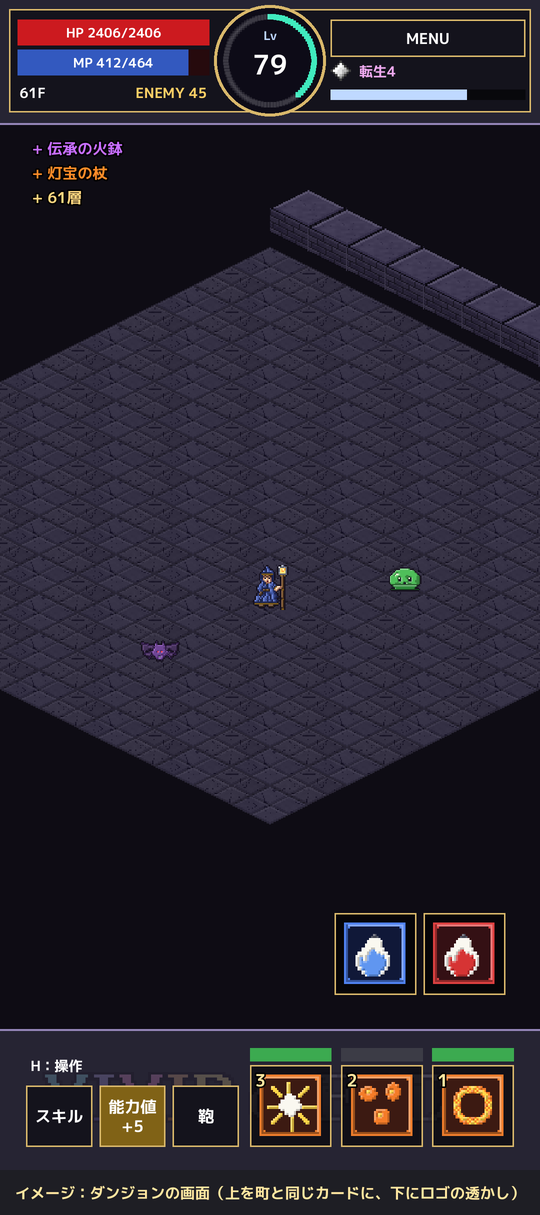
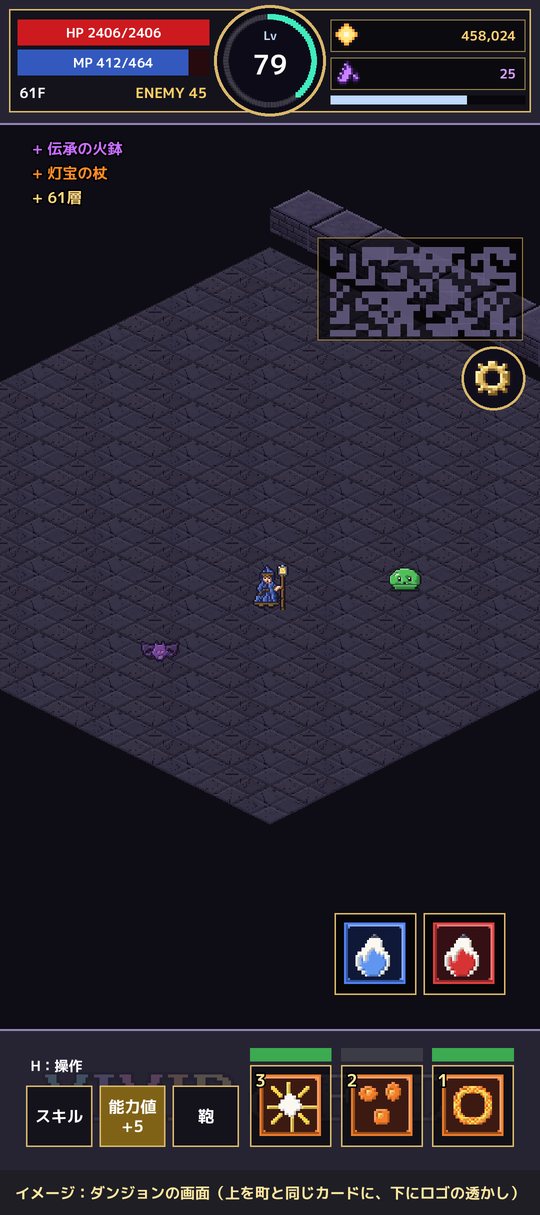
Dungeon HUD: embers and shards in the card's right column, MENU as a gear under the minimap, normal font in the card
The card's text uses the regular font so long values shrink to fit; the
dodge bar sits under the embers and shards; the boss HP bar moves below
the gear.

Claude-Session: https://claude.ai/code/session_01XMEo4x59g4Ygvken3HiQNb

Changed region(s): [[0.563, 0.1827, 0.9778, 0.335], [0.5926, 0.0, 0.9778, 0.0914]]

diff --git a/Game/Assets/Scripts/UI/Hud.cs b/Game/Assets/Scripts/UI/Hud.cs
@@ -86,14 +86,15 @@ namespace VividOfFade
         static Rect TopCard => new Rect(BandMargin, BandMargin, Screen.width - BandMargin * 2f, TopCardH);
         static float TopCardH => Screen.height * 0.088f;
         static float TopLvD => TopCardH * 1.02f;
-        /// <summary>MENU（GUI 座標）。カードの右の列の上。</summary>
-        static Rect MenuGui
+        /// <summary>MENU の歯車（GUI 座標）。ミニマップのすぐ下、右端。</summary>
+        Rect MenuGui
         {
             get
             {
-                var c = TopCard;
-                float rx = c.center.x + TopLvD * 0.5f + PanelPad * 1.5f, rw = c.xMax - PanelPad - rx;
-                return new Rect(rx, c.y + c.height * 0.1f, rw, c.height * 0.36f);
+                float w = Screen.width * 0.38f, h = w * Room.MiniH / Room.MiniW;
+                float right = Screen.width - Screen.height * 0.015f;
+                float s = Screen.height * 0.05f;
+                return new Rect(right - s, ViewTop + Screen.height * 0.01f + h + Screen.height * 0.008f, s, s);
             }
         }
 
@@ -1466,6 +1467,15 @@ namespace VividOfFade
             float lineH = small.fontSize * 1.35f;
             var card = TopCard;
             float pp = PanelPad;
+            // カードの文字は通常のフォント（欄に収まるよう縮む）。縁取りで読みやすく
+            var cardText = new GUIStyle(small) { fontStyle = FontStyle.Bold, alignment = TextAnchor.MiddleCenter };
+            var cardOutline = new Color(0f, 0f, 0f, 0.85f);
+            void CardLabel(Rect r, string t, Color c, TextAnchor a)
+            {
+                var st0 = new GUIStyle(cardText) { alignment = a };
+                st0.normal.textColor = c;
+                OutlinedLabel(r, t, st0, cardOutline);
+            }
             Fill(card, new Color(0.08f, 0.075f, 0.11f, 1f));
             float lvD = TopLvD;
             var lvR = new Rect(card.center.x - lvD * 0.5f, card.center.y - lvD * 0.5f, lvD, lvD);
@@ -1474,14 +1484,14 @@ namespace VividOfFade
             var hpBack = new Rect(lx, card.y + card.height * 0.1f, lw, card.height * 0.25f);
             float ratio = player.MaxHp > 0 ? Mathf.Clamp01((float)player.Hp / player.MaxHp) : 0f;
             OrnateBar(hpBack, ratio, new Color(0.15f, 0.04f, 0.05f, 1f), new Color(0.8f, 0.1f, 0.12f, 1f), FrameGold, false);
-            NumberFont.DrawIn(hpBack, $"HP {player.Hp}/{player.MaxHp}", Color.white, TextAnchor.MiddleCenter, 0.9f, HudPx);
+            CardLabel(hpBack, $"HP {player.Hp}/{player.MaxHp}", Color.white, TextAnchor.MiddleCenter);
             var mpBack = new Rect(lx, card.y + card.height * 0.39f, lw, card.height * 0.25f);
             float mpRatio = player.MaxMp > 0 ? Mathf.Clamp01((float)player.Mp / player.MaxMp) : 0f;
             OrnateBar(mpBack, mpRatio, new Color(0.05f, 0.08f, 0.18f, 1f), new Color(0.2f, 0.35f, 0.75f, 1f), FrameGold, false);
-            NumberFont.DrawIn(mpBack, $"MP {player.Mp}/{player.MaxMp}", Color.white, TextAnchor.MiddleCenter, 0.9f, HudPx);
+            CardLabel(mpBack, $"MP {player.Mp}/{player.MaxMp}", Color.white, TextAnchor.MiddleCenter);
             var floorRow = new Rect(lx, card.y + card.height * 0.69f, lw, card.height * 0.24f);
             string floorText = GameConfig.FloorNameEn(World.Floors.Floor) + (World.Floors.IsBossFloor ? " BOSS" : ""); // HUD では「71F」と短く
-            NumberFont.DrawIn(new Rect(floorRow.x, floorRow.y, floorRow.width * 0.48f, floorRow.height), floorText, Color.white, TextAnchor.MiddleLeft, 0.9f, HudPx);
+            CardLabel(new Rect(floorRow.x, floorRow.y, floorRow.width * 0.48f, floorRow.height), floorText, Color.white, TextAnchor.MiddleLeft);
             if (!World.Floors.IsBossFloor && World.Room.StairsArea != null)
             {
                 // 普通の層：階段の封印までの残りの敵（階段の部屋）。開いたら「OPEN」
@@ -1489,27 +1499,32 @@ namespace VividOfFade
                 bool open = World.Floors.StairsOpen;
                 string t = open ? "OPEN" : $"ENEMY {left}";
                 var col = open ? new Color(0.55f, 0.8f, 1f) : new Color(1f, 0.82f, 0.4f);
-                NumberFont.DrawIn(new Rect(floorRow.x + floorRow.width * 0.48f, floorRow.y, floorRow.width * 0.52f, floorRow.height), t, col, TextAnchor.MiddleRight, 0.9f, HudPx);
+                CardLabel(new Rect(floorRow.x + floorRow.width * 0.48f, floorRow.y, floorRow.width * 0.52f, floorRow.height), t, col, TextAnchor.MiddleRight);
             }
-            // 右：MENU（あとで描く）、転生の印、回避の待ち時間
-            var mg = MenuGui;
-            if (ch != null && ch.Rebirths > 0)
+            // 右：火種と欠片（町の画面と同じ）、その下に回避の待ち時間
             {
-                var aura = ThirdClasses.AuraColor(ch.Rebirths);
-                var countStyle = new GUIStyle(small) { alignment = TextAnchor.MiddleLeft, fontStyle = FontStyle.Bold };
-                countStyle.normal.textColor = Color.Lerp(aura, Color.white, 0.35f);
-                float gem = card.height * 0.2f;
-                var gemRect = new Rect(mg.x, card.y + card.height * 0.5f, gem, gem);
-                var old2 = GUI.color;
-                GUI.color = aura;
-                DrawSprite(gemRect, PixelArt.RebirthGem);
-                GUI.color = old2;
-                FitLabel(new Rect(gemRect.xMax + mm * 0.4f, gemRect.y - gem * 0.1f, mg.width - gem - mm * 0.4f, gem * 1.2f), Loc.T($"Reborn x{ch.Rebirths}", $"転生{ch.Rebirths}"), countStyle);
+                float rx = lvR.xMax + pp * 1.5f, rw = card.xMax - pp * 1.5f - rx;
+                bool shards = ch != null && (ch.AbyssShards > 0 || GameConfig.CanEnterAbyss(ch));
+                int embers = (ch != null ? ch.Embers : 0) + inv.Embers; // 持ち帰る前の分も足して見せる
+                for (int k = 0; k < 2; k++)
+                {
+                    var pr = new Rect(rx, card.y + card.height * (0.1f + k * 0.37f), rw, card.height * 0.31f);
+                    Fill(pr, new Color(0f, 0f, 0f, 0.45f));
+                    OrnateFrame(pr, new Color(0.85f, 0.72f, 0.42f, 0.7f), Mathf.Max(1f, FrameT * 0.5f), true, false);
+                    float ic = pr.height * 0.86f;
+                    var oldC = GUI.color;
+                    if (k == 1 && !shards) GUI.color = new Color(1f, 1f, 1f, 0.3f);
+                    DrawSprite(new Rect(pr.x + pr.height * 0.1f, pr.y + (pr.height - ic) * 0.5f, ic, ic), k == 0 ? PixelArt.Ember : PixelArt.ShardIcon);
+                    GUI.color = oldC;
+                    string v = k == 0 ? embers.ToString("N0", System.Globalization.CultureInfo.InvariantCulture) : (shards ? ch.AbyssShards.ToString("N0", System.Globalization.CultureInfo.InvariantCulture) : "-");
+                    var vc = k == 0 ? new Color(1f, 0.82f, 0.45f) : (shards ? new Color(0.85f, 0.62f, 1f) : new Color(1f, 1f, 1f, 0.3f));
+                    CardLabel(new Rect(pr.x + ic * 1.3f, pr.y, pr.width - ic * 1.3f - pr.height * 0.25f, pr.height), v, vc, TextAnchor.MiddleRight);
+                }
+                var dodge = new Rect(rx, card.y + card.height * 0.84f, rw, card.height * 0.08f);
+                Fill(dodge, new Color(0f, 0f, 0f, 0.6f));
+                Fill(new Rect(dodge.x, dodge.y, dodge.width * player.DodgeReady, dodge.height), new Color(0.75f, 0.85f, 1f, 0.9f));
+                Frame(dodge, new Color(0f, 0f, 0f, 0.6f), 1f);
             }
-            var dodge = new Rect(mg.x, card.y + card.height * 0.78f, mg.width, card.height * 0.1f);
-            Fill(dodge, new Color(0f, 0f, 0f, 0.6f));
-            Fill(new Rect(dodge.x, dodge.y, dodge.width * player.DodgeReady, dodge.height), new Color(0.75f, 0.85f, 1f, 0.9f));
-            Frame(dodge, new Color(0f, 0f, 0f, 0.6f), 1f);
             // 真ん中：Lv の丸と経験値の輪（押すと能力値の画面。ポイントが余っていれば金色に明滅）
             TownScreen.DrawDisk(new Rect(lvR.x - FrameT * 2f, lvR.y - FrameT * 2f, lvD + FrameT * 4f, lvD + FrameT * 4f), FrameGold);
             TownScreen.DrawDisk(lvR, new Color(0.05f, 0.045f, 0.09f, 1f));
@@ -1534,7 +1549,9 @@ namespace VividOfFade
             var lvSmall = new GUIStyle(small) { alignment = TextAnchor.MiddleCenter };
             lvSmall.normal.textColor = new Color(0.75f, 0.85f, 1f);
             GUI.Label(new Rect(lvR.x, lvR.y + lvD * 0.16f, lvD, lvD * 0.2f), ch != null && ch.Level >= Progression.LevelCap(ch) ? "Lv★" : "Lv", lvSmall);
-            NumberFont.DrawIn(new Rect(lvR.x + lvD * 0.15f, lvR.y + lvD * 0.36f, lvD * 0.7f, lvD * 0.34f), level.ToString(), lvGlow > 0f ? Color.Lerp(Color.white, new Color(1f, 0.9f, 0.5f), lvGlow) : Color.white, TextAnchor.MiddleCenter, 1f);
+            var lvBig = new GUIStyle(cardText) { fontSize = Mathf.RoundToInt(label.fontSize * 1.6f) };
+            lvBig.normal.textColor = lvGlow > 0f ? Color.Lerp(Color.white, new Color(1f, 0.9f, 0.5f), lvGlow) : Color.white;
+            OutlinedLabel(new Rect(lvR.x + lvD * 0.12f, lvR.y + lvD * 0.34f, lvD * 0.76f, lvD * 0.38f), level.ToString(), lvBig, cardOutline);
             OrnateFrame(card, FrameGold, FrameT, true, false); // まとめて1枚の枠
             float y = topBottom + mm;
 
@@ -1588,12 +1605,11 @@ namespace VividOfFade
             int points = ch != null ? ch.Points : 0;
             bool notice = points > 0 || inv.BagFull;
             // MENU：いつも同じ暗いボタン。お知らせ（ポイントが余っている・鞄が満杯）があるときは、右上に脈打つ赤い丸の「!」
-            var menuR = ToGui(MenuRect);
-            Fill(menuR, new Color(0.08f, 0.075f, 0.11f, 1f)); // まとめた枠・ショートカットの欄と同じ色
+            var menuR = MenuGui; // ミニマップの下の、丸い歯車のボタン
+            TownScreen.DrawDisk(new Rect(menuR.x - FrameT * 2f, menuR.y - FrameT * 2f, menuR.width + FrameT * 4f, menuR.height + FrameT * 4f), FrameGold);
+            TownScreen.DrawDisk(menuR, new Color(0.06f, 0.055f, 0.1f, 0.95f));
             Button(menuR, null, new Color(0f, 0f, 0f, 0f), centered, () => World.OpenMenu());
-            var menuStyle = new GUIStyle(centered) { fontStyle = FontStyle.Bold };
-            NumberFont.DrawIn(new Rect(menuR.x + menuR.width * 0.08f, menuR.y, menuR.width * 0.84f, menuR.height), "MENU", Color.white, TextAnchor.MiddleCenter, 0.9f, HudPx);
-            OrnateFrame(menuR, FrameGold, FrameT);
+            DrawSprite(new Rect(menuR.x + menuR.width * 0.16f, menuR.y + menuR.height * 0.16f, menuR.width * 0.68f, menuR.height * 0.68f), PixelArt.GearIcon);
             if (notice)
             {
                 float bsz = menuR.height * 0.95f * (1f + 0.08f * Mathf.Sin(Time.unscaledTime * 6f));
@@ -1841,7 +1857,7 @@ namespace VividOfFade
             if (boss == null) return;
             float w = Screen.width * 0.8f;
             float h = Screen.height * 0.018f;
-            float mapBottom = ViewTop + Screen.height * 0.01f + Screen.width * 0.38f * Room.MiniH / Room.MiniW; // 地図（右上）のすぐ下。右下の薬・攻撃ボタンと重ならないように
+            float mapBottom = MenuGui.yMax; // 地図と、その下の歯車の下。右下の薬・攻撃ボタンと重ならないように
             var r = new Rect((Screen.width - w) * 0.5f, mapBottom + small.fontSize * 2f, w, h);
             Fill(r, new Color(0f, 0f, 0f, 0.7f));
             Fill(new Rect(r.x, r.y, r.width * Mathf.Clamp01(boss.Hp / boss.MaxHp), r.height), new Color(0.9f, 0.2f, 0.25f, 0.95f));
